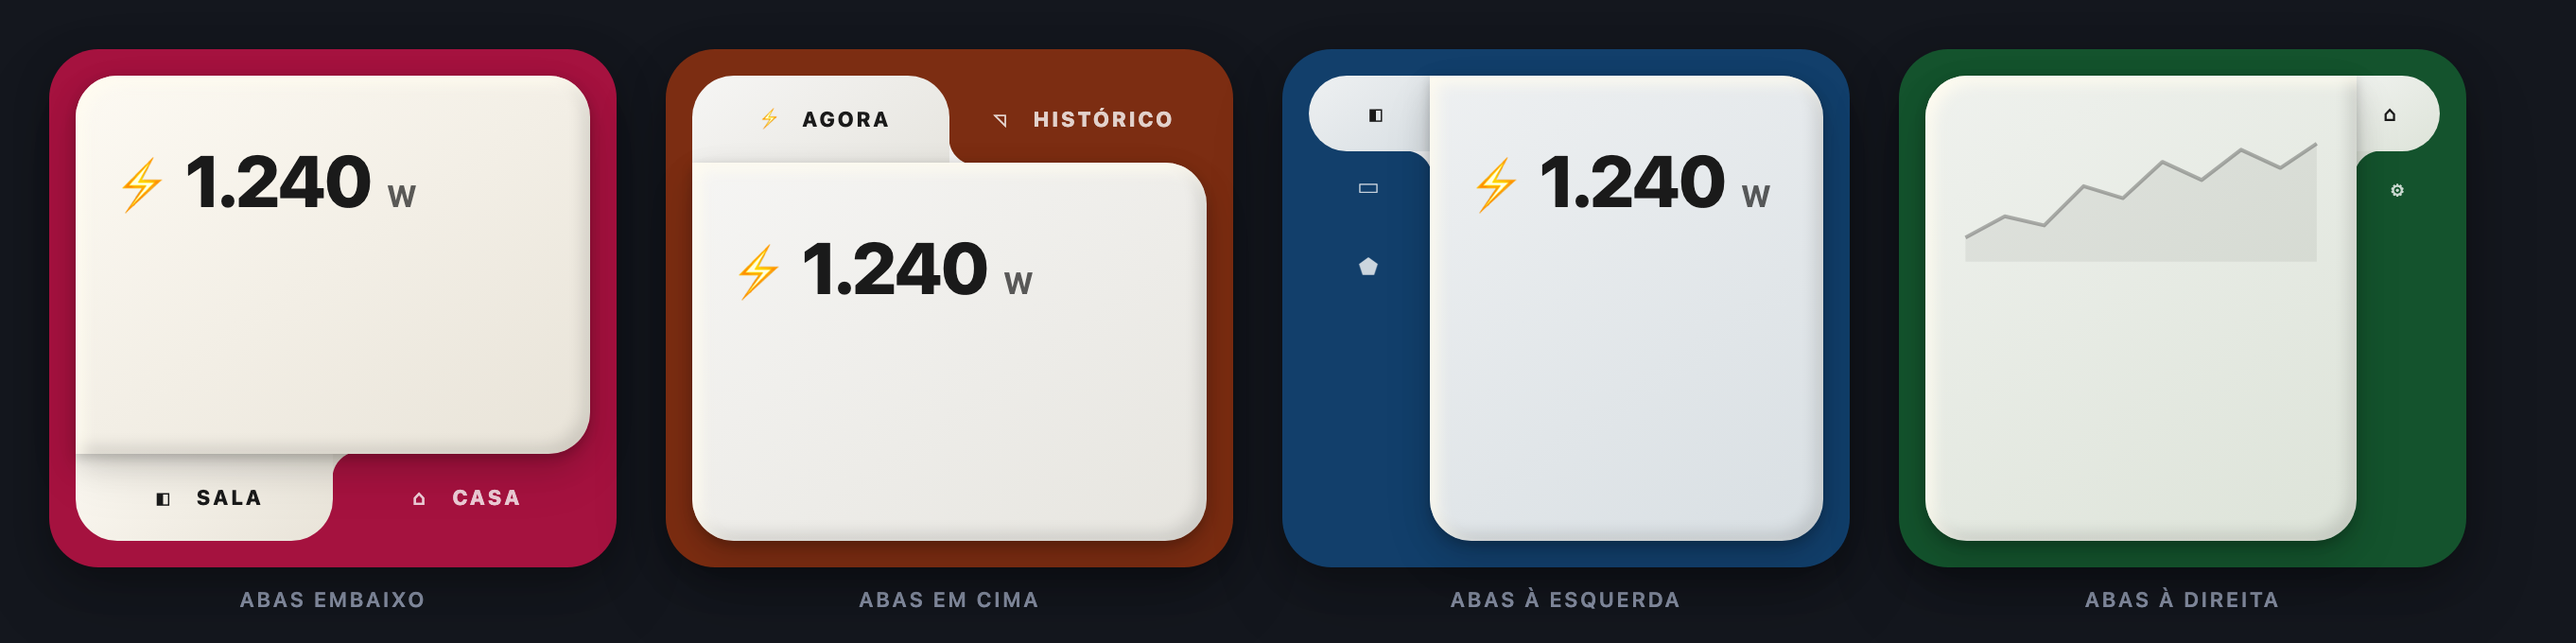
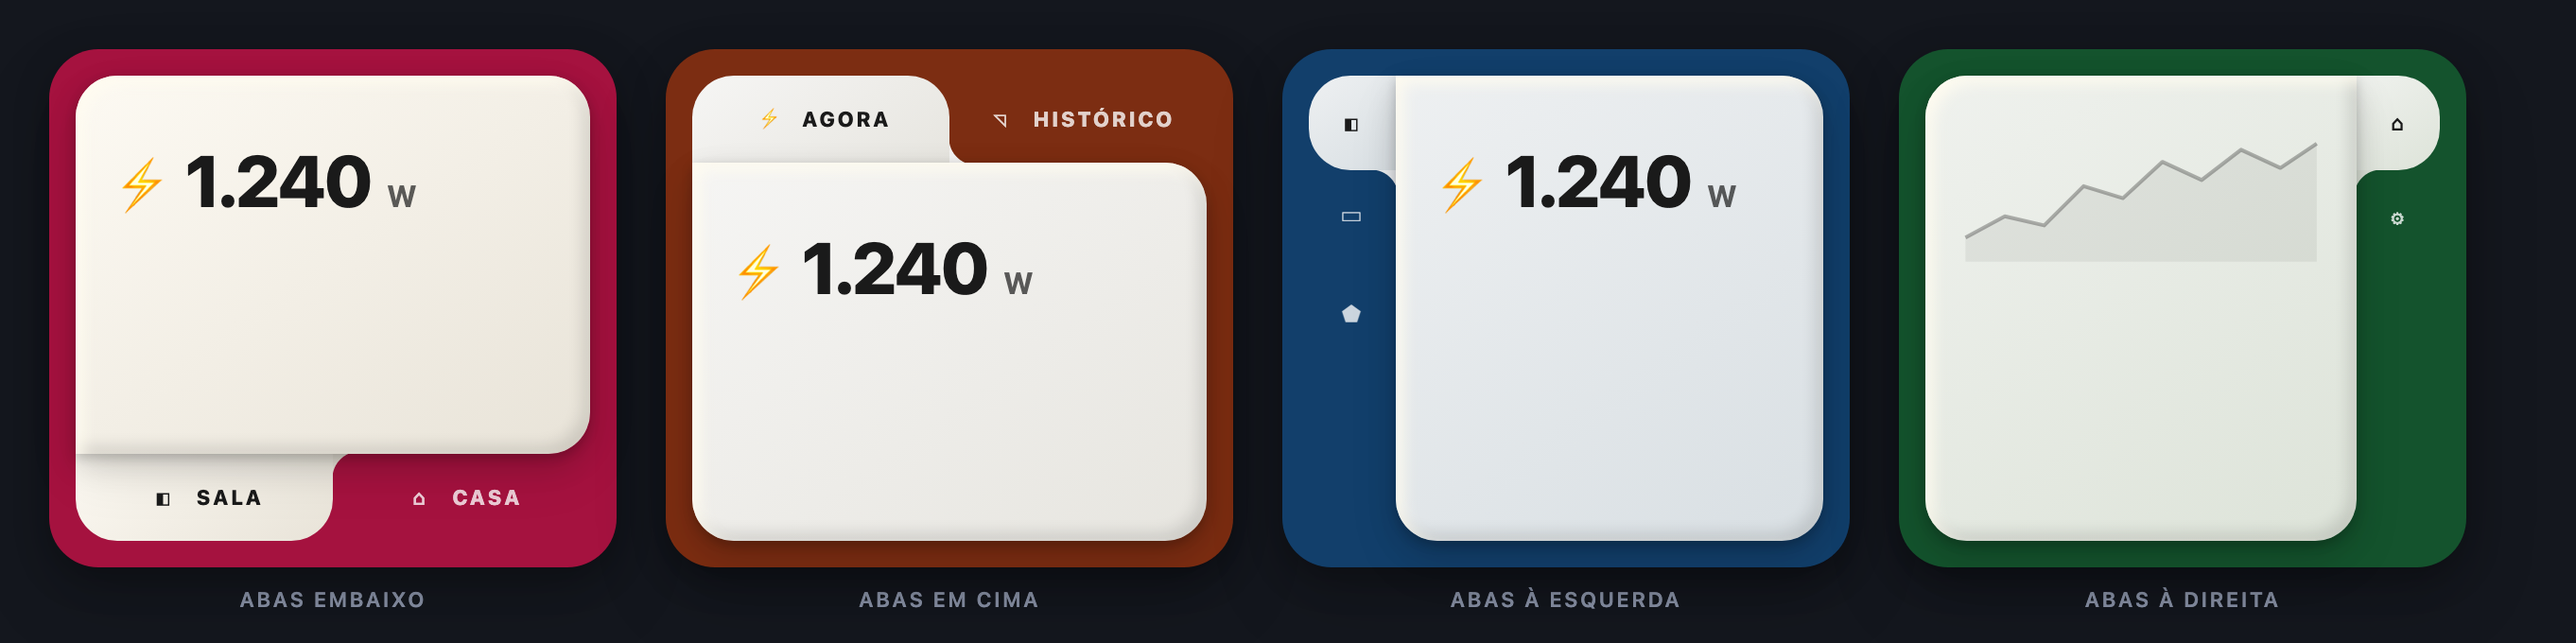
feat: 📐 side tabs that fit — no more 104px of wasted strip
Vertical tab strips were hard-coded to 104px no matter what was in them, so
an icon-only column ate a third of the card and each "tab" came out 104×40 —
wider than it is long, which is the opposite of what a side tab should look
like. Now the strip measures itself: 46px floor (same thickness as the
horizontal strip), grows to whatever the label needs, and stops at 168px or
45% of the card, whichever comes first. Explicit tab_size still wins.

And the crooked bit: the 1px seam against subpixel gaps was written as a bare
`padding-left:1px`, which WIPED the tab's own breathing room on the side that
meets the panel — the active tab's icon and label sat 3.5px inside everyone
else's. Now the seam adds to the padding instead of replacing it, so active
and inactive tabs line up on the same axis.

Also: a minimum tab length, so the two outer corner radii stop meeting in the
middle and turning a short side tab into a lozenge; and the strip floor now
respects tab_icon_size, so a big icon can never spill out of its own tab.

Probe grew 20 checks covering all of it. README, gallery photo and the repo
skill updated along with it.

Changed region(s): [[0.4993, 0.1235, 0.6865, 0.8338], [0.9049, 0.2162, 0.9673, 0.2779]]

diff --git a/dist/mw-tab-card.js b/dist/mw-tab-card.js
@@ -18,7 +18,8 @@
     // deixa de parecer aba — lá elas são do tamanho do conteúdo, sempre.
     tab_stretch: true,
     tab_align: "",              // "" = automático: centro na horizontal, topo na vertical
-    tab_size: 0,                // 0 = automático (46px na horizontal, 104 na vertical)
+    tab_size: 0,                // 0 = automático: 46px na horizontal; na vertical,
+                                // do tamanho do conteúdo (entre 46 e 168px)
     tab_font_size: 11,
     tab_icon_size: 20,
     default_tab: 0,
@@ -50,6 +51,11 @@
   };
 
   const POSITIONS = ["top", "bottom", "left", "right"];
+  // faixa vertical automática: nunca mais fina que a horizontal (46px, para o
+  // ícone não ficar espremido) nem mais larga que o rótulo pede — e nunca
+  // passando de SIDE_MAX / 45% do card, senão a aba come o painel.
+  const SIDE_MIN = 46;
+  const SIDE_MAX = 168;
   const DISPLAYS = ["icon", "text", "both"];
   const ALIGNS = ["start", "center", "end"];
   // faixa horizontal: a fila centrada é o que o desenho de referência mostra.
@@ -293,12 +299,23 @@
       const flow = {
         bottom: "column", top: "column-reverse", left: "row-reverse", right: "row",
       }[pos];
-      // 1px de sobreposição contra a costura de subpixel entre aba e painel
+      // respiro da aba: PAD_LEN corre ao longo da faixa, PAD_CROSS atravessa
+      // ela. Na horizontal a espessura vem toda de --tsize, então o respiro
+      // que atravessa é zero; na vertical o mesmo 14px de antes corre ao
+      // longo da faixa — é o que dá à aba lateral a mesma proporção da de
+      // cima/baixo em vez de uma tira mais larga que comprida.
+      const PAD_LEN = "14px";
+      const PAD_CROSS = horiz ? "0px" : "10px";
+      // 1px de sobreposição contra a costura de subpixel entre aba e painel.
+      // ARMADILHA: escrever `padding-left:1px` seco APAGA o respiro do lado
+      // que encosta no painel (o atalho `padding` já passou) e joga ícone e
+      // texto da aba ativa para dentro — 3,5px de desalinho em relação às
+      // abas inativas na faixa vertical. Somar, nunca substituir.
       const seam = {
-        bottom: "margin-top:-1px;padding-top:1px;",
-        top: "margin-bottom:-1px;padding-bottom:1px;",
-        left: "margin-right:-1px;padding-right:1px;",
-        right: "margin-left:-1px;padding-left:1px;",
+        bottom: `margin-top:-1px;padding-top:calc(${PAD_CROSS} + 1px);`,
+        top: `margin-bottom:-1px;padding-bottom:calc(${PAD_CROSS} + 1px);`,
+        left: `margin-right:-1px;padding-right:calc(${PAD_CROSS} + 1px);`,
+        right: `margin-left:-1px;padding-left:calc(${PAD_CROSS} + 1px);`,
       }[pos];
       const tabRadius = {
         bottom: "border-radius:0 0 var(--tr) var(--tr);",
@@ -336,15 +353,19 @@
         .pane > *{display:block;}
         .empty{opacity:.55;font-size:13px;text-align:center;padding:22px 8px;}
         .tabs{position:relative;z-index:1;display:flex;
-          ${horiz ? "flex-direction:row;height:var(--tsize);" : "flex-direction:column;width:var(--tsize);"}
+          ${horiz ? "flex-direction:row;height:var(--tsize);"
+            : "flex-direction:column;width:var(--tsize);max-width:var(--tmax);"
+              // o ícone manda no piso: espessura menor que ele o faria vazar
+              // da aba (ha-icon é flex:none) e sair ilegível por cima da casca
+              + "min-width:max(var(--tmin), calc(var(--tis) + 8px));"}
           justify-content:var(--talign);}
         .tab{appearance:none;-webkit-appearance:none;border:0;background:transparent;cursor:pointer;
           font-family:inherit;font-size:var(--tfs);font-weight:800;letter-spacing:0.1em;
           text-transform:uppercase;line-height:1.1;color:var(--mw-tab-off);
           position:relative;box-sizing:border-box;min-width:0;min-height:0;
           display:flex;align-items:center;justify-content:center;gap:7px;
-          padding:${horiz ? "0 14px" : "10px 8px"};
-          ${horiz ? "" : "flex-direction:column;text-align:center;"}
+          padding:${horiz ? `${PAD_CROSS} ${PAD_LEN}` : `${PAD_LEN} ${PAD_CROSS}`};
+          ${horiz ? "" : "flex-direction:column;text-align:center;min-height:var(--tminlen);"}
           -webkit-tap-highlight-color:transparent;touch-action:manipulation;
           transition:color .22s ease;}
         .tab.stretch{flex:1 1 0;}
@@ -420,7 +441,19 @@
       set("--cpad", `${num(c.content_padding, 18)}px`);
       set("--gap", `${num(c.card_gap, 12)}px`);
       set("--panel-min", `${num(c.panel_min_height, 0)}px`);
-      set("--tsize", `${num(c.tab_size, 0) || (horiz ? 46 : 104)}px`);
+      // Espessura da faixa. Horizontal: 46px por padrão, como sempre.
+      // Vertical: "automático" agora é do tamanho do conteúdo, entre SIDE_MIN
+      // e SIDE_MAX — os 104px fixos de antes sobravam largura numa faixa só
+      // de ícones (aba de 104×40: mais larga que comprida, e o painel perdia
+      // um terço do card). tab_size explícito continua mandando.
+      const tsz = num(c.tab_size, 0);
+      const sideAuto = !horiz && !tsz;
+      set("--tsize", tsz ? `${tsz}px` : (horiz ? `${SIDE_MIN}px` : "max-content"));
+      set("--tmin", sideAuto ? `${SIDE_MIN}px` : "0px");
+      set("--tmax", sideAuto ? `min(${SIDE_MAX}px, 45%)` : "none");
+      // comprimento mínimo da aba lateral: sem isso o arredondamento --tr das
+      // duas quinas de fora se encontra no meio e a aba vira uma pastilha
+      set("--tminlen", `${Math.max(2 * pr + 6, 2 * nr + 14)}px`);
       set("--tfs", `${num(c.tab_font_size, 11)}px`);
       set("--tis", `${num(c.tab_icon_size, 20)}px`);
       set("--hdr-inset", `${num(c.header_inset, 26)}px`);
@@ -585,7 +618,7 @@
     tab_display: "O que aparece na aba",
     tab_stretch: "Abas dividem a faixa em partes iguais",
     tab_align: "Onde a fila de abas encosta",
-    tab_size: "Tamanho da faixa de abas (0 = automático)",
+    tab_size: "Espessura da faixa de abas (0 = automático: na lateral, do tamanho do conteúdo)",
     tab_font_size: "Tamanho do texto da aba",
     tab_icon_size: "Tamanho do ícone da aba",
     default_tab: "Aba inicial",

diff --git a/tools/probe.js b/tools/probe.js
@@ -210,6 +210,58 @@ ok(vars(mk({ ...BASE, tab_position: "bottom", tab_stretch: false }))["--talign"]
 ok(vars(mk({ ...BASE, tab_position: "left" }))["--pr-tl"] === "0px",
   "primeira aba à esquerda deveria deixar reto o canto superior esquerdo do painel");
 
+/* 4c. faixa vertical: espessura do tamanho do conteúdo, não 104px fixos.
+   Era daí que vinha a "largura demais": uma faixa só de ícones ficava com
+   104px de largura e a aba, 104×40 — mais larga que comprida. */
+const vAuto = vars(mk({ ...BASE, tab_position: "right" }));
+ok(vAuto["--tsize"] === "max-content",
+  "faixa vertical automática deveria se medir pelo conteúdo (--tsize: max-content)");
+ok(vAuto["--tmin"] === "46px",
+  "faixa vertical automática precisa de espessura mínima (a mesma da horizontal)");
+has(vAuto["--tmax"], "168px", "faixa vertical automática precisa de teto de largura");
+has(vAuto["--tmax"], "45%", "o teto da faixa vertical também tem que ser relativo ao card");
+/* horizontal segue com os 46px de sempre e sem min/max atrapalhando */
+const hAuto = vars(mk({ ...BASE, tab_position: "bottom" }));
+ok(hAuto["--tsize"] === "46px", "faixa horizontal automática deveria continuar com 46px");
+ok(hAuto["--tmin"] === "0px" && hAuto["--tmax"] === "none",
+  "min/max de largura são da faixa vertical — não podem sobrar na horizontal");
+/* tab_size explícito continua mandando, sem piso nem teto por cima dele */
+const vFix = vars(mk({ ...BASE, tab_position: "left", tab_size: 56 }));
+ok(vFix["--tsize"] === "56px", "tab_size explícito deveria mandar na espessura da faixa");
+ok(vFix["--tmin"] === "0px" && vFix["--tmax"] === "none",
+  "com tab_size explícito, piso e teto automáticos têm que sair da frente");
+/* comprimento mínimo da aba lateral: sem ele os dois cantos arredondados se
+   encontram no meio e a aba vira pastilha */
+ok(vars(mk({ ...BASE, tab_position: "left" }))["--tminlen"] === "50px",
+  "aba lateral precisa de comprimento mínimo (2×panel_radius + 6)");
+ok(vars(mk({ ...BASE, tab_position: "left", panel_radius: 8, notch_radius: 20 }))["--tminlen"] === "54px",
+  "com recorte grande, o comprimento mínimo tem que caber os dois recortes");
+
+/* 4d. a costura de 1px SOMA ao respiro da aba, nunca o substitui. Trocar
+   apagava o respiro do lado que encosta no painel e jogava ícone e texto da
+   aba ativa 3,5px para dentro — o desalinho visível na faixa vertical. */
+for (const [pos, edge] of Object.entries(
+  { bottom: "top", top: "bottom", left: "right", right: "left" })) {
+  const css = style(mk({ ...BASE, tab_position: pos }));
+  const cross = (pos === "top" || pos === "bottom") ? "0px" : "10px";
+  has(css, `padding-${edge}:calc(${cross} + 1px);`,
+    `posição ${pos}: a costura deveria somar 1px ao respiro, não trocá-lo`);
+  ok(!css.includes(`padding-${edge}:1px;`),
+    `posição ${pos}: costura seca (padding-${edge}:1px) apaga o respiro da aba ativa`);
+}
+/* e o respiro da aba lateral corre ao longo da faixa, como na horizontal */
+has(style(mk({ ...BASE, tab_position: "left" })), "padding:14px 10px;",
+  "aba lateral: 14px ao longo da faixa (mesma proporção da horizontal)");
+has(style(mk({ ...BASE, tab_position: "bottom" })), "padding:0px 14px;",
+  "aba horizontal: respiro só nas laterais, espessura vem de --tsize");
+has(style(mk({ ...BASE, tab_position: "right" })), "max-width:var(--tmax);",
+  "faixa vertical deveria aplicar teto de largura");
+/* o piso da faixa vertical nunca pode ficar menor que o ícone: ele é
+   flex:none e vazaria da aba, ilegível por cima da casca */
+has(style(mk({ ...BASE, tab_position: "right" })),
+  "min-width:max(var(--tmin), calc(var(--tis) + 8px));",
+  "o piso da faixa vertical tem que respeitar o tamanho do ícone");
+
 /* 5. ícone / texto / ambos */
 const both = tabsHtml(mk({ ...BASE, tab_display: "both" }));
 ok(both.includes("ha-icon") && both.includes("Carteira"), "display 'both' deveria ter ícone e texto");

diff --git a/tools/bench-stubs.js b/tools/bench-stubs.js
@@ -102,7 +102,8 @@
     },
     left: {
       title: "Abas à esquerda", width: 300,
-      cfg: { tab_position: "left", tab_display: "icon", tab_size: 64,
+      // sem tab_size: a faixa lateral automática se mede pelo conteúdo
+      cfg: { tab_position: "left", tab_display: "icon",
         paper_color: "blue-3", shell_color: "#123f6b", panel_min_height: 246,
         tabs: [{ label: "Sala", icon: "mdi:sofa", cards: [{ demo: "power" }] },
           { label: "Suíte", icon: "mdi:bed", cards: [{ demo: "chart" }] },
@@ -110,6 +111,7 @@
     },
     right: {
       title: "Abas à direita", width: 300,
+      // com tab_size na mão: continua valendo, sem piso nem teto por cima
       cfg: { tab_position: "right", tab_display: "icon", tab_size: 56,
         paper_color: "green-3", shell_color: "#14532d", panel_min_height: 246,
         tabs: [{ label: "Casa", icon: "mdi:home", cards: [{ demo: "chart" }] },

diff --git a/.claude/skills/mw-tab-card/SKILL.md b/.claude/skills/mw-tab-card/SKILL.md
@@ -48,7 +48,11 @@ as outras na bancada.
    campo em `_renderMainForm()` (aparência) ou `_renderTabForm()` (por aba).
 2. `node --check dist/mw-tab-card.js && node tools/probe.js`
 3. `IA/tools/check-embeds.sh`
-4. Abrir `tools/preview.html` — as 6 variações têm que continuar certas.
+4. Abrir `tools/preview.html` — as 7 variações têm que continuar certas.
+   Geometria não se confere no olho: medir no console é o que pega o
+   desalinho de 3,5px da aba ativa —
+   `[...sr.querySelectorAll(".tab")].map(t => t.firstElementChild.getBoundingClientRect().x)`
+   tem que dar o **mesmo** centro para aba ativa e inativas.
 5. Commit assinado (regra 00), feature branch, PR. **Merge é do dono.**
 
 ## Armadilhas (com sintoma)
@@ -63,6 +67,10 @@ as outras na bancada.
 | Editor de card de dentro não abre | HA não carregou `hui-card-element-editor` | `loadHuiEditors()` instancia o editor da pilha vertical para puxá-lo; se falhar, cai no JSON — **é esperado**, não é bug |
 | Perde o foco ao digitar no editor | recriar o `ha-form` ou o editor filho a cada tecla | `_writeCard()` só atualiza o rótulo da lista, nunca recria o editor aberto |
 | YAML ganha `tab_position: bottom` sozinho | default indo para a config | `_patch()` apaga tudo que for igual ao `DEFAULTS` |
+| Faixa lateral larga demais, painel espremido | `--tsize` fixo na vertical (eram 104px, valessem ícone ou rótulo) | vertical automática usa `max-content` entre `--tmin` (46) e `--tmax` (`min(168px, 45%)`) |
+| Ícone/texto da aba **ativa** desalinhado das inativas | a costura de 1px escrita como `padding-<lado>:1px` seco **apaga** o respiro daquele lado (o atalho `padding` já passou) | somar: `padding-<lado>:calc(<respiro> + 1px)` |
+| Aba lateral vira pastilha/oval | `--tr` (= `panel_radius`) nas duas quinas de fora se encontra no meio de uma aba curta | `--tminlen` = `max(2×pr + 6, 2×nr + 14)` |
+| Ícone grande vaza da aba lateral | `ha-icon` é `flex:none`; faixa mais fina que ele não o encolhe, ele transborda para a casca | piso da faixa é `max(var(--tmin), calc(var(--tis) + 8px))` |
 
 ## Verificação (o que faz a tarefa estar pronta)
 

diff --git a/README.md b/README.md
@@ -47,6 +47,14 @@ esticar cada aba pela altura toda vira um bloco de meia tela e deixa de
 parecer aba. `tab_stretch` só existe na horizontal, e o editor esconde o
 interruptor quando ele não faria nada.
 
+A faixa vertical **se mede pelo conteúdo**: uma coluna só de ícones fica com
+os mesmos 46px de espessura da faixa horizontal, e uma com rótulo cresce até
+onde o rótulo pede — no máximo 168px ou 45% do card, o que vier primeiro
+(daí em diante o texto corta com reticências). O respiro da aba corre ao
+longo da faixa, como na horizontal, então a aba lateral tem a mesma
+proporção da de cima/embaixo em vez de virar uma tira larga e curta.
+`tab_size` continua mandando quando você quiser uma espessura fixa.
+
 ![Aba do meio ativa e versão sem relevo](docs/variacoes.png)
 
 Com a aba do meio ativa aparecem **os dois recortes** ao mesmo tempo; numa aba
@@ -155,7 +163,6 @@ continua valendo: vira a dica ao passar o mouse.
 type: custom:mw-tab-card
 tab_position: left
 tab_display: icon
-tab_size: 64
 paper_color: blue-3
 shell_color: "#123f6b"
 panel_min_height: 246
@@ -317,7 +324,7 @@ tabs:
 | `tab_display` | `icon`/`text`/`both` | `both` | o que a aba mostra |
 | `tab_stretch` | bool | `true` | abas dividem a faixa em partes iguais — **só na faixa horizontal** |
 | `tab_align` | `start`/`center`/`end` | auto | onde a fila encosta quando não estica; auto = centro na horizontal, topo na vertical |
-| `tab_size` | px | `0` (auto) | altura da faixa (46) ou largura (104) |
+| `tab_size` | px | `0` (auto) | espessura da faixa: auto = 46px na horizontal e, na vertical, do tamanho do conteúdo (entre 46 e 168px / 45% do card) |
 | `tab_font_size` / `tab_icon_size` | px | 11 / 20 | tipografia da aba |
 | `default_tab` | índice | `0` | aba aberta ao carregar |
 | `remember_tab` | bool | `false` | guarda a última aba **neste navegador** |
